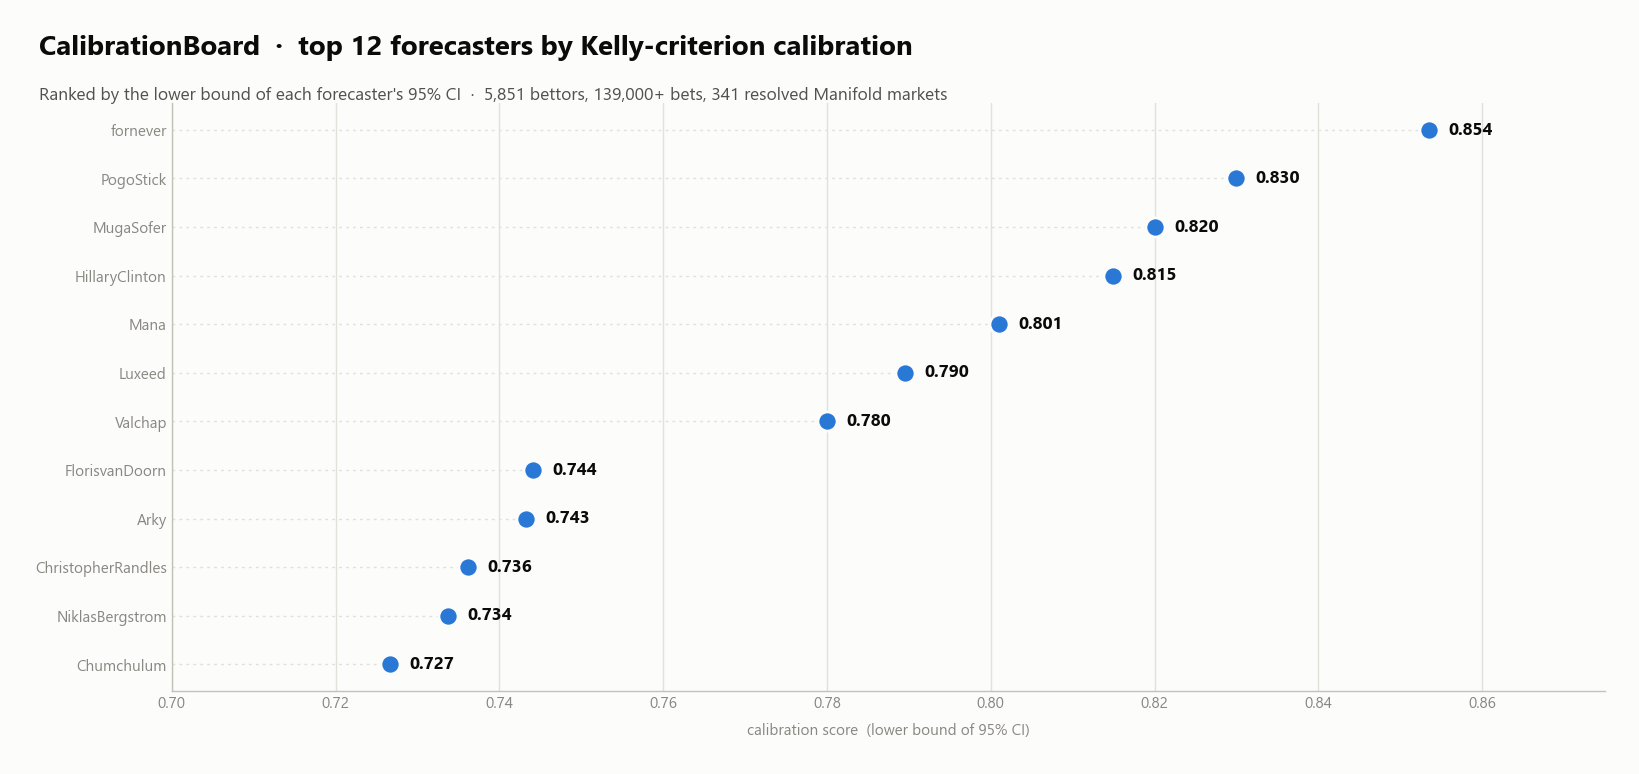
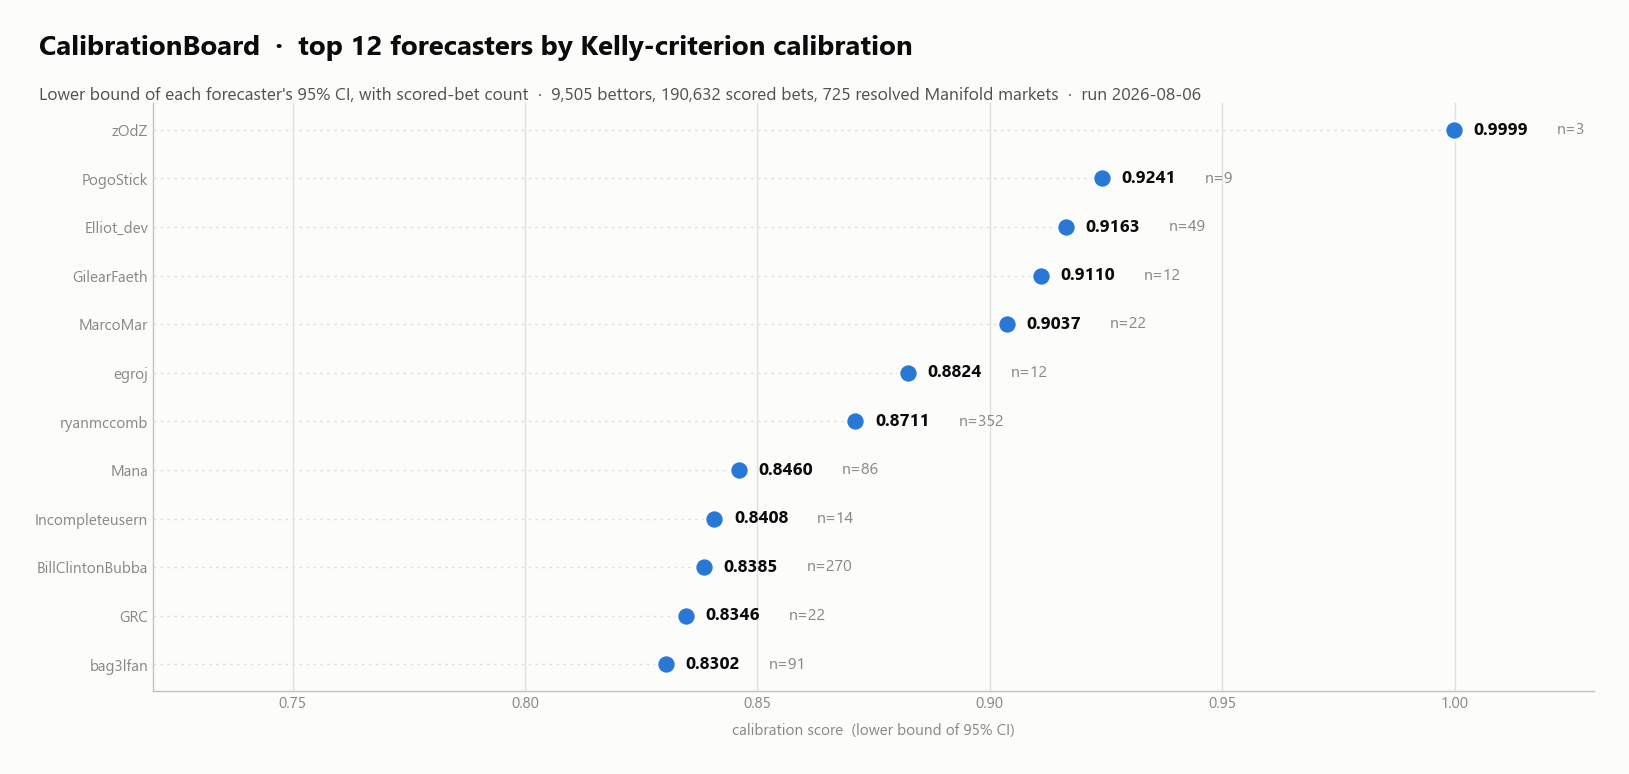
Refresh leaderboard from 2026-08-06 re-run; show sample sizes

diff --git a/README.md b/README.md
@@ -11,26 +11,36 @@ than by profit - which mostly measures how much mana someone was willing to risk
 Each bet is scored with a Kelly-criterion metric against the bettor's balance at
 the time of the bet, so a confident bet counts for more than a hedge. Users are
 then ranked by the **lower bound of the 95% confidence interval** of their score,
-not the mean, so a small number of lucky trades cannot reach the top of the board.
+not the mean, which is intended to stop a handful of lucky trades reaching the top.
 
 ## Scale
 
-- 6,200+ API requests across 24,000+ markets, 139,000+ bets and 5,800+ users
-- Filtered to 341 resolved markets, excluding self-resolved and creator-bet markets
-- 5,851 unique bettors scored; the top 30 are reported
+Figures below are from a re-run on **2026-08-06** (the banner reflects this run;
+the outputs stored in the notebook are from the original February 2026 run):
 
-The banner above shows the top 12.
+| | |
+|---|---|
+| API calls | 12,147 |
+| Markets fetched | 23,916 |
+| Resolved markets after filtering | 725 |
+| Bets fetched | 367,827 |
+| Bets scored | 190,632 |
+| Unique bettors | 9,505 |
+| Bettors ranked (>1 scored bet) | 5,548 |
+| Reported | top 30 |
 
 ## Pipeline
 
 `TopManifold.ipynb`, in order:
 
 1. Fetch topic groups, select by member count, fetch markets per group
-2. Keep only resolved markets that pass `mconditions` (resolved, not creator-bet)
-3. Fetch every bet on those markets, keep bets older than a day before resolution
-4. Reconstruct each user's balance history to get the Kelly proportion per bet
+2. Keep only resolved binary markets created after the cutoff, with >= 30 unique
+   bettors and not resolved N/A
+3. Fetch every bet on those markets placed more than a day before close
+4. Drop bets by the market's own creator, reconstruct each bettor's balance
+   history, and derive the Kelly proportion per bet
 5. Score each bet, then take the lower bound of each user's 95% CI
-6. Sort and report the leaderboard
+6. Filter to platinum-division-or-better users and report the top 30
 
 ## Running it
 
@@ -38,13 +48,23 @@ The banner above shows the top 12.
 pip install requests numpy scipy matplotlib
 ```
 
-Every cell hits the live API, so a full run takes thousands of requests and the
-results move as new markets resolve. The recorded outputs in the notebook are from
-the run described above.
+Every cell hits the live API. A full run is ~12,000 requests, and the results move
+as new markets resolve.
 
 ## Known rough edges
 
-- Clipping is applied to the Kelly proportion where balance reconstruction goes
-  negative; noted inline in the notebook as worth revisiting.
-- `scipy.stats.t.interval` emits invalid-value warnings for users with a single
-  scored bet; those users are filtered out before ranking.
+- **Small samples reach the top.** The median ranked user has only 4 scored bets
+  and 1,519 of the 5,548 have exactly 2. The CI lower bound is supposed to punish
+  that, but the `eps` clipping in cell 19 undercuts it: when every one of a user's
+  scored bets lands on the `1 - 1e-6` bound, `stats.sem` goes to ~0, the interval
+  collapses to a point, and the lower bound equals the clipped value. The current
+  top entry has n=3 for exactly this reason. A minimum-bet threshold, or shrinking
+  toward the population mean, would be the fix. The banner prints n per row so the
+  ranking can be read with this in mind.
+- **Topic selection is positional.** Cell 3 picks topics by hardcoded index into
+  the members-sorted top 100, so a re-run selects whatever occupies those ranks
+  that day rather than the same topics as a previous run.
+- The market cutoff (`createdTime >= 1748736000000`, ~2025-06-01) is hardcoded, so
+  the window widens every time the pipeline is re-run.
+- Clipping is applied where balance reconstruction goes negative; noted inline in
+  the notebook as worth revisiting.
